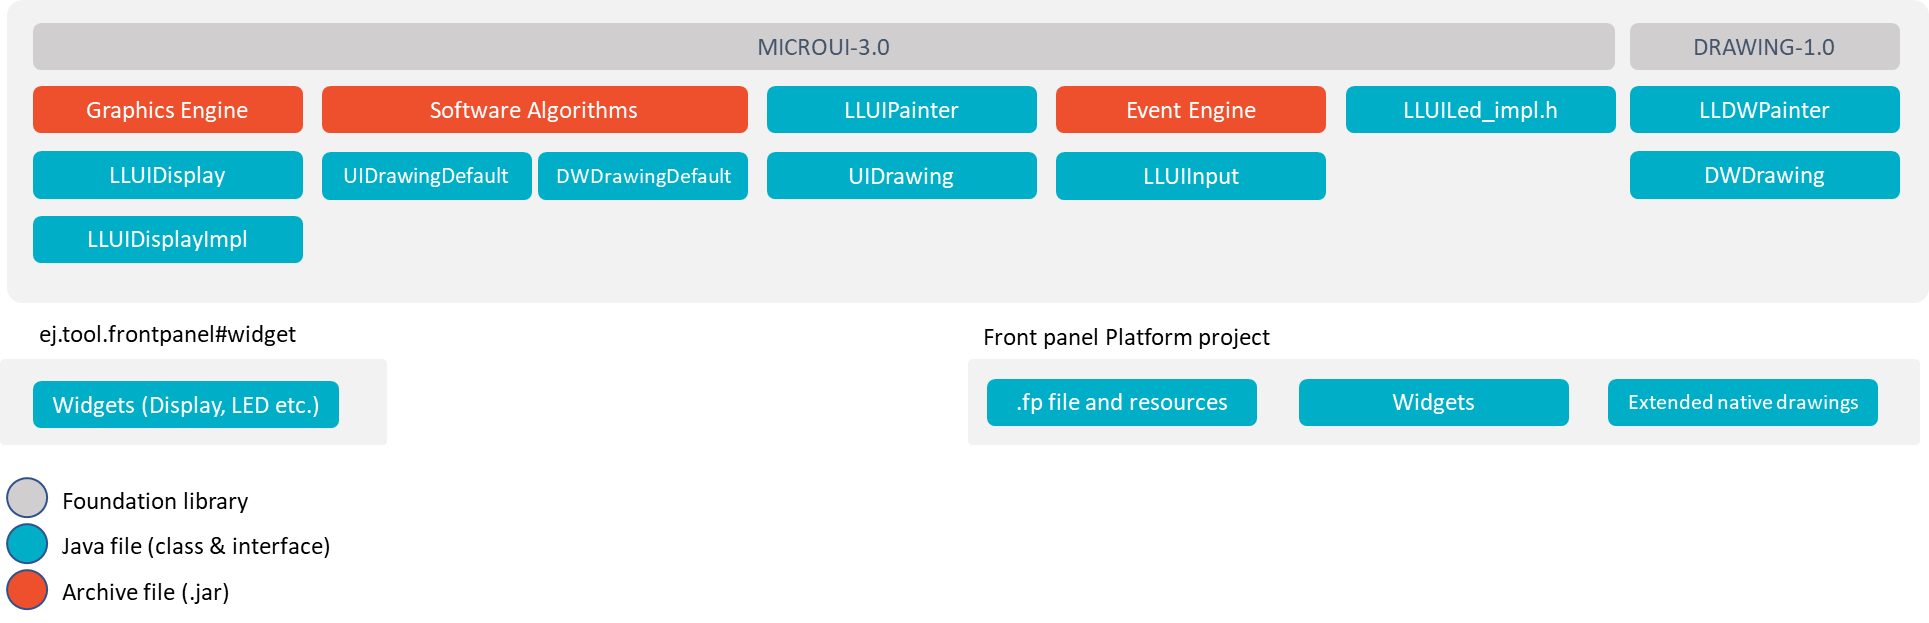
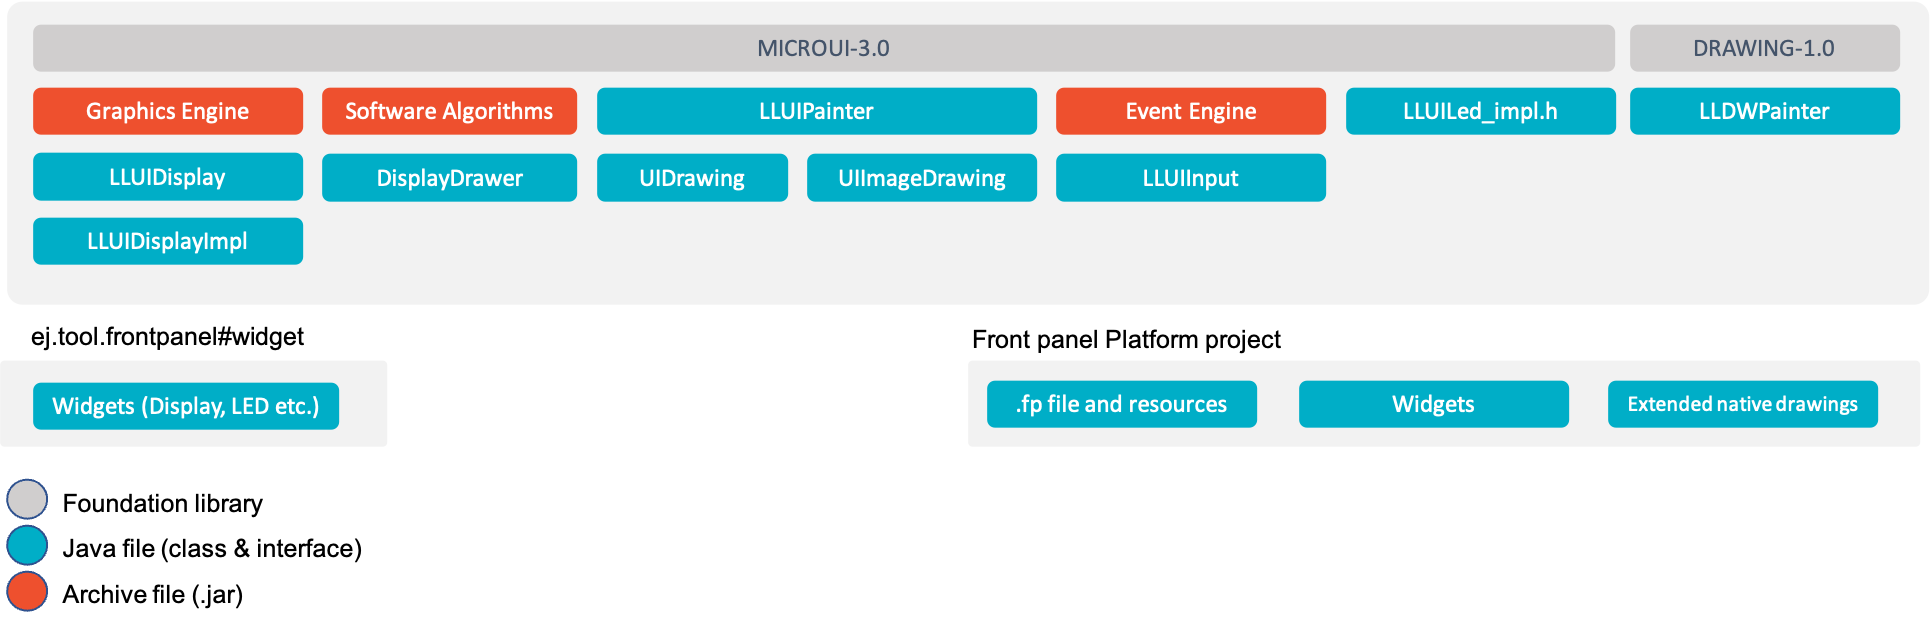
Add documentation about buffered images with custom format.

diff --git a/VEEPortingGuide/uiSimulation.rst b/VEEPortingGuide/uiSimulation.rst
@@ -91,10 +91,20 @@ As described :ref:`here<section_ui_low_level>`, the Front Panel uses an equivale
 This set of classes and interfaces is available in the module `com.microej.pack.ui#ui-pack`_.
 It offers the same capacity to override some built-in drawing algorithms (internal Graphics Engine drawing algorithms), to add some custom drawing algorithms, to manipulate the MicroUI concepts (GraphicsContext, Image, etc.) in the Front Panel project, etc.
 
-* The interface ``ej.microui.display.LLUIDisplay`` represents the MicroUI Graphics Engine (MicroUI framework). It provides some methods to map MicroUI byte arrays in MicroUI Graphics Context objects, manipulate MicroUI colors, etc. An instance of this framework is available via the field ``Instance``. 
-* The interface ``ej.microui.display.LLUIDisplayImpl`` all methods required by MicroUI implementation to be compatible with the MicroUI Display class implementation. See :ref:`section_ui_simulation_display`.
-* The class ``ej.microui.display.LLUIPainter`` implements all MicroUI drawing natives. It defines some interfaces and classes to manipulate the MicroUI concepts (GraphicsContext, Image, etc.) in the Front Panel project. Like the embedded side, this class manages the synchronization with the Graphics Engine and delegates the drawing to the interface ``ej.microui.display.UIDrawing``. 
-* Like the embedded side, the default implementation of the interface ``ej.microui.display.UIDrawing``: ``ej.microui.display.UIDrawing.UIDrawingDefault`` calls the internal Graphics Engine algorithms (software algorithms). Each algorithm can be overridden independently. 
+* The interface ``ej.microui.display.LLUIDisplay`` represents the MicroUI Graphics Engine (MicroUI framework).
+  It provides some methods to map MicroUI byte arrays in MicroUI Graphics Context objects, manipulate MicroUI colors, clip, etc.
+  An instance of this framework is available via the field ``Instance``. 
+* The interface ``ej.microui.display.LLUIDisplayImpl`` all methods required by MicroUI implementation to be compatible with the MicroUI Display class implementation.
+  See :ref:`section_ui_simulation_display`.
+* The class ``ej.microui.display.LLUIPainter`` implements all MicroUI drawing natives.
+  It defines some interfaces and classes to manipulate the MicroUI concepts (GraphicsContext, Image, etc.) in the Front Panel project.
+  Like the embedded side, this class manages the synchronization with the Graphics Engine and delegates the drawing to the interface ``ej.microui.display.UIDrawing``. 
+* The interface ``ej.microui.display.UIDrawing`` defines all the drawing methods available in MicroUI.
+  The default implementation of the methods involving images calls the matching method in the ``ej.microui.display.UIImageDrawing``.
+  The default implementation of the other methods reports the error that the drawing is not done.
+* The interface ``ej.microui.display.UIImageDrawing`` defines all the methods that draw an image.
+  The default implementation of the methods reports the error that the drawing is not done.
+* The class ``ej.microui.display.DisplayDrawer`` implements ``ej.microui.display.UIDrawing`` that draws using the Graphics Engine software algorithms.
 * The classes in the package ``ej.drawing`` implement the native of the MicroUI extended library: `Drawing`_
 * The classes in the package ``ej.microui.event`` manage the input events, see :ref:`section_ui_simulation_input`.
 * The classes in the package ``ej.microui.led`` manage the LEDs.

diff --git a/ApplicationDeveloperGuide/UI/MicroUI/images.rst b/ApplicationDeveloperGuide/UI/MicroUI/images.rst
@@ -405,10 +405,10 @@ Mutable images can be created with a call to constructor `ej.microui.display.Buf
 .. _Graphics Context: https://repository.microej.com/javadoc/microej_5.x/apis/ej/microui/display/BufferedImage.html#getGraphicsContext--
 .. _ej.microui.display.BufferedImage(): https://repository.microej.com/javadoc/microej_5.x/apis/ej/microui/display/BufferedImage.html#BufferedImage-int-int-
 
-Transparency
-~~~~~~~~~~~~
+Display Format
+~~~~~~~~~~~~~~
 
-The output format of `BufferedImage`_ matches the pixel organization (layout, depth, etc.) of the display.
+By default, the output format of a `BufferedImage`_ matches the pixel organization (layout, depth, etc.) of the display.
 The algorithms used to draw in such an image are the same as those used to draw on the display (for footprint purposes). 
 Since the display buffer is opaque, the algorithms cannot draw transparent pixels.
 
@@ -417,6 +417,18 @@ The given color value is interpreted as a 24-bit RGB color, where the high-order
 
 .. _BufferedImage: https://repository.microej.com/javadoc/microej_5.x/apis/ej/microui/display/BufferedImage.html
 .. _GraphicsContext.setColor(): https://repository.microej.com/javadoc/microej_5.x/apis/ej/microui/display/GraphicsContext.html#setColor-int-
+
+Other Formats
+~~~~~~~~~~~~~
+
+It is also possible to create a buffered image with another format by using the `constructor with the format parameter_`.
+
+The other formats than the display one are not supported by MicroUI.
+But a VEE port can manage one or more formats (see XXX).
+
+Depending on the format, the transparency may be supported.
+
+.. _constructor with the format parameter: https://repository.microej.com/javadoc/microej_5.x/apis/ej/microui/display/BufferedImage.html#BufferedImage-int-int-Format
 
 .. _images_heap:
 
